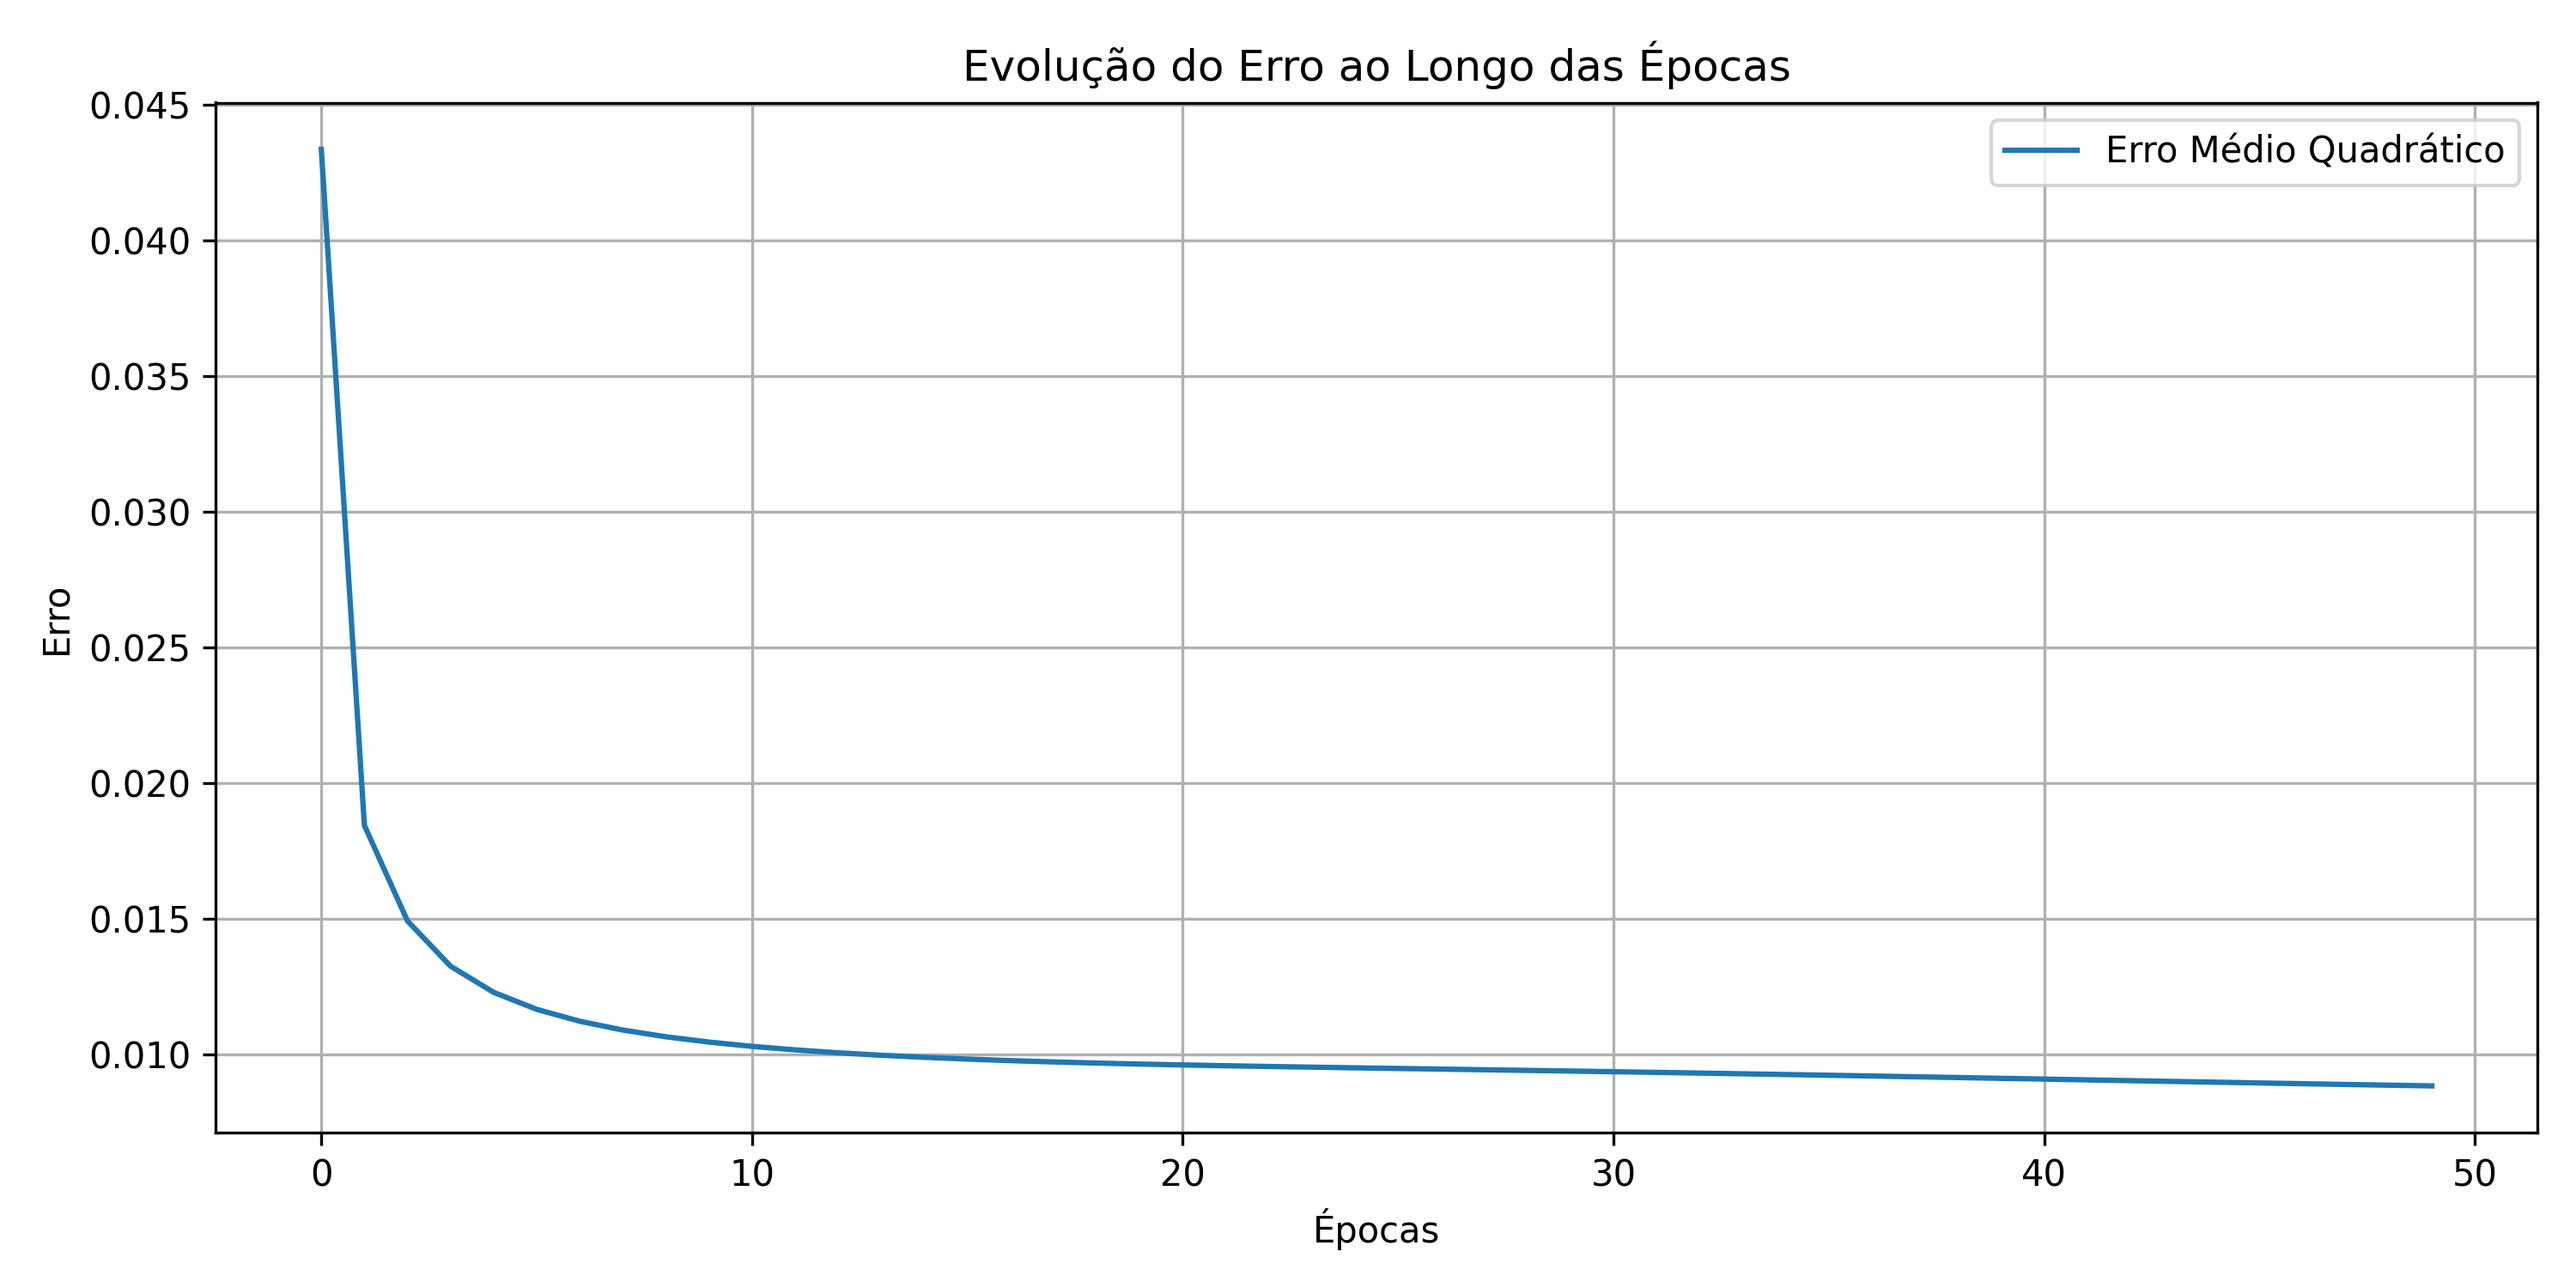
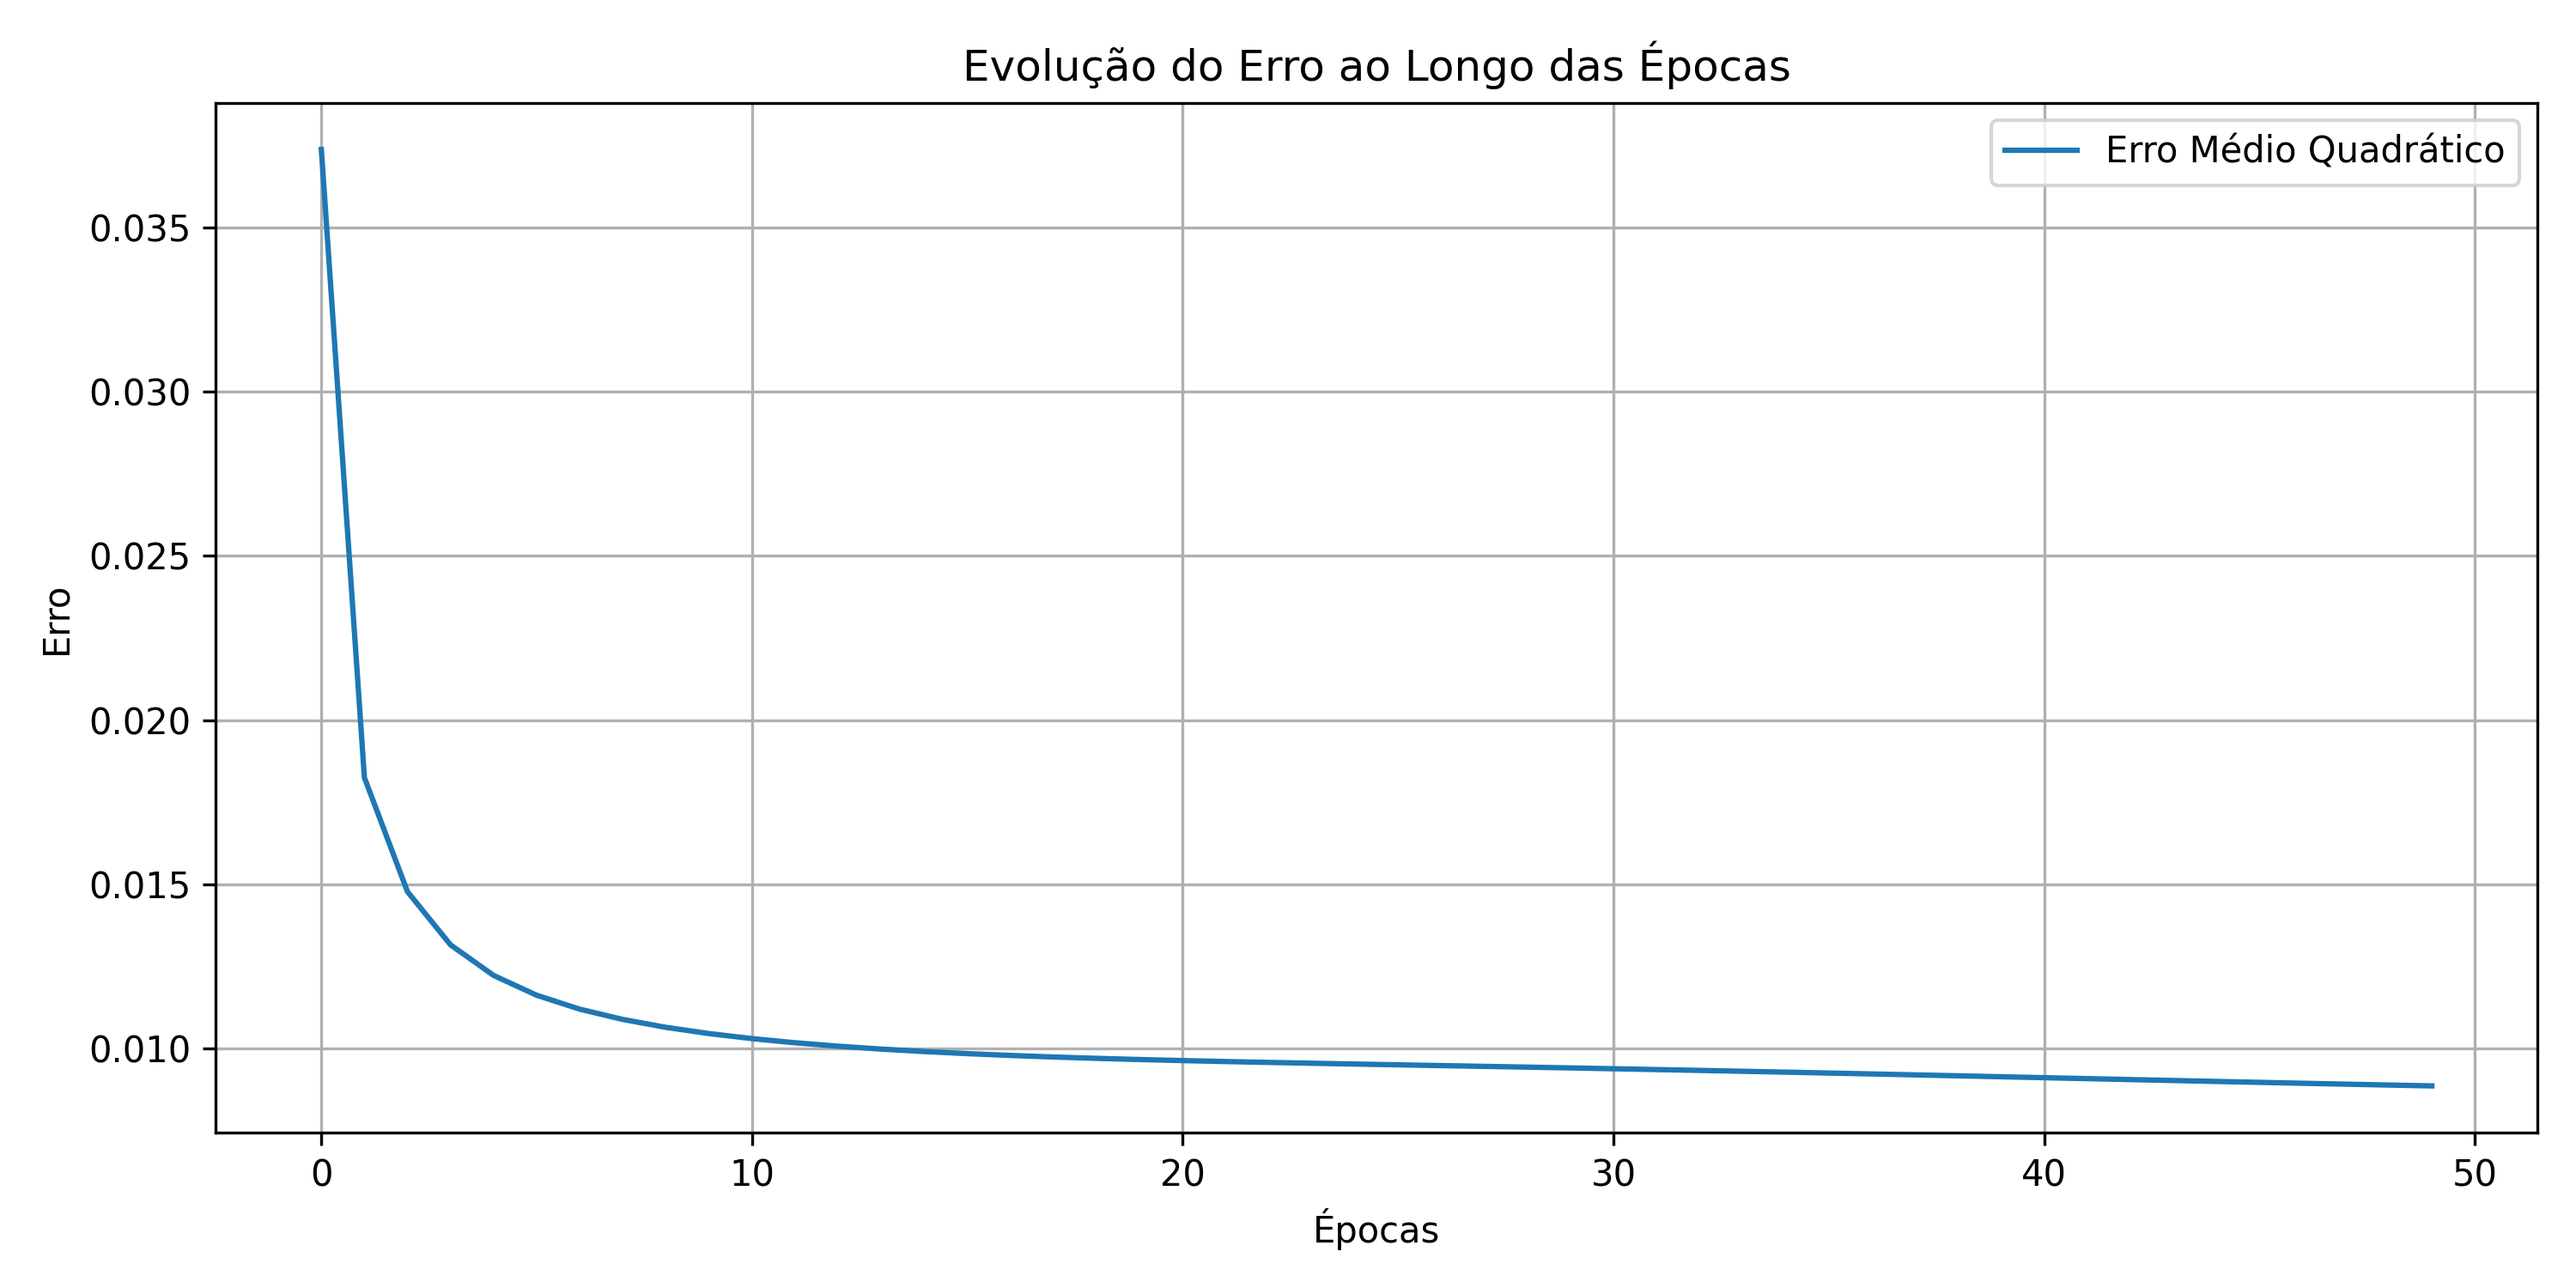
Adicionando últimas alterações nos códigos

diff --git a/main.py b/main.py
@@ -27,7 +27,7 @@ X_treino_normalizado = min_max_scaler( X_treino )
 # Grid Search
 
 # Valores de teste
-taxas_aprendizado = [0.01, 0.05, 0.1]
+taxas_aprendizado = [0.01, 0.05, 0.1, 0.5]
 lista_epocas = [50, 100, 200]
 
 # Opções de métricas {'accuracy', 'precision', 'recall', 'f1_score', 'mse'}
